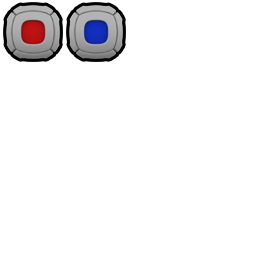
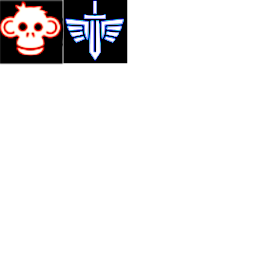
ui changes

Changed region(s): [[0.0, 0.0, 0.5, 0.25]]

diff --git a/src/game/game.cpp b/src/game/game.cpp
@@ -10,7 +10,7 @@ namespace game
     int killtime = 0;
     int points = 0;
     int points_total = 0;
-    const int showtime = 2000;
+    const int showtime = 1300;
     char point_text[8]{"\f20000"};
     float scale;
 
@@ -658,12 +658,6 @@ namespace game
     const char *colorname(gameent *d, const char *name, const char * alt, const char *color)
     {
         if(!name) name = alt && d == player1 ? alt : d->name;
-        bool dup = !name[0] || duplicatename(d, name, alt) || d->aitype != AI_NONE;
-        if(dup || color[0])
-        {
-            if(dup) return tempformatstring(d->aitype == AI_NONE ? "\fs%s%s \f5(%d)\fr" : "\fs%s%s \f5[%d]\fr", color, name, d->clientnum);
-            return tempformatstring("\fs%s%s\fr", color, name);
-        }
         return name;
     }
 
@@ -726,16 +720,14 @@ namespace game
     }
 
     void drawhudicons(gameent *d) {
-        pushhudscale(1.5);
 
         if(d->state!=CS_DEAD) {
-           draw_textf("%d", HICON_X/1.5, HICON_Y/1.5, points_total);
+            resethudshader();
+            drawicon(d->team, HICON_X, HICON_Y, 120);
+            draw_textf("Score:", HICON_X+HICON_SPACE+120, HICON_Y);
+            draw_textf("%d", HICON_X+HICON_SPACE+120, HICON_Y+HICON_SIZE/2, points_total);
         }
 
-        pophudmatrix();
-        resethudshader();
-
-        //drawicon(0, HICON_X, HICON_Y);
         if(d->state!=CS_DEAD) {
            // drawicon(d->gunselect, HICON_X + 2*HICON_STEP, HICON_Y);
         }
@@ -776,13 +768,13 @@ namespace game
                 if(alpha > 1) {
                     if(scale > 1.5){
                         int delta_time = lastmillis-killtime;
-                        scale -= delta_time / 1000.0f;
+                        scale -= delta_time / 1200.0f;
                     }
                     pushhudscale(scale);
 
                     float fw, fh;
                     text_boundsf(point_text, fw, fh);
-                    draw_text(point_text, ((w/scale*(1800.f/h))-fw)/2, ((h/scale*(1650.f/w))-fh)/2, 0xFF, 0xFF, 0XFF, alpha);
+                    draw_text(point_text, ((w/scale*(1800.f/h))-fw)/2, ((h/scale*(1650.f/w))-fh)/2+200/scale, 0xFF, 0xFF, 0XFF, alpha);
 
                     // reset the hud scale
                     pophudmatrix();
